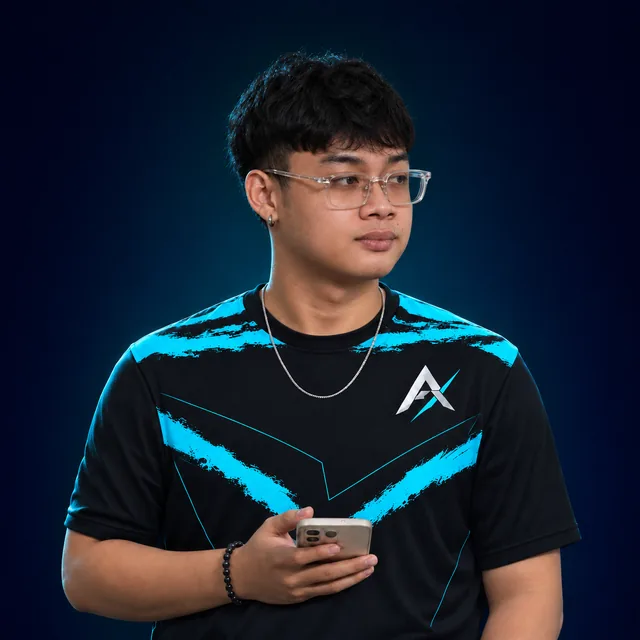
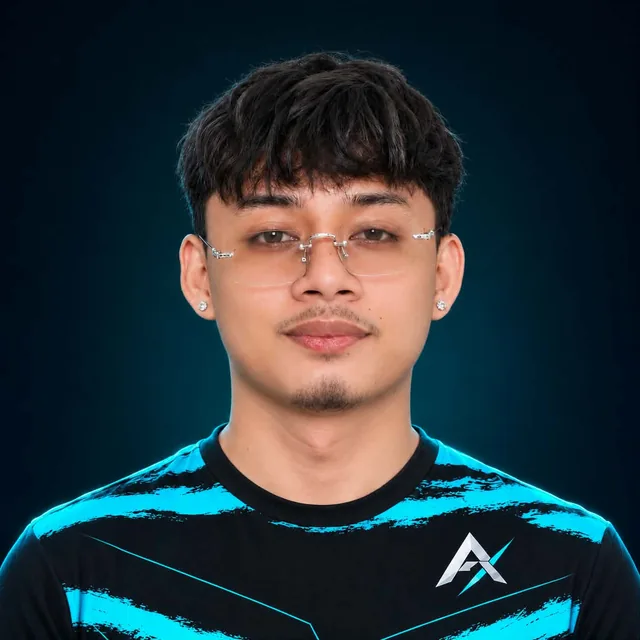
Update compressed Apex portraits and Team Wraith hover color

diff --git a/index.html b/index.html
@@ -8,7 +8,7 @@
   <title>FTAP | Full-Time Adulting, Part-Time Gaming</title>
   <link rel="icon" type="image/svg+xml" href="assets/favicon.svg">
   <link rel="preload" as="image" href="assets/optimized/gamingbg.webp" imagesrcset="assets/optimized/gamingbg-960.webp 960w, assets/optimized/gamingbg.webp 1672w" imagesizes="100vw" fetchpriority="high">
-  <link rel="stylesheet" href="styles.css?v=apex-theme-1">
+  <link rel="stylesheet" href="styles.css?v=apex-theme-2">
   <link rel="stylesheet" href="trophy.css">
   <script defer src="community.js?v=optimized-1"></script>
   <script defer src="app.js?v=apex-teams-1"></script>
@@ -188,11 +188,11 @@
             <header class="team-slide-header"><div><h3>Apex</h3></div><img decoding="async" class="team-logo" src="assets/optimized/teams/apex/apex.webp" width="1254" height="1254" alt="Apex silver and cyan A logo" loading="lazy"></header>
             <ul class="team-lineup" aria-label="Apex starting lineup">
               <li class="player-card rank-immortal">
-                <div class="player-portrait"><img decoding="async" class="player-photo" src="assets/optimized/teams/apex/haru.webp" width="1254" height="1254" alt="Haru in an Apex jersey" loading="lazy"><span class="captain-badge">Captain</span></div>
+                <div class="player-portrait"><img decoding="async" class="player-photo" src="assets/optimized/teams/apex/haru.webp?v=2" width="1254" height="1254" alt="Haru in an Apex jersey" loading="lazy"><span class="captain-badge">Captain</span></div>
                 <div class="player-card-copy"><div class="player-card-tags"></div><h4 class="player-name">Haru</h4><div class="player-medal"><img decoding="async" src="assets/optimized/medals/immortal.webp" width="80" height="80" alt="" loading="lazy"><span>Immortal</span></div><p class="player-lane">Offlane</p></div>
               </li>
               <li class="player-card rank-ancient">
-                <div class="player-portrait"><img decoding="async" class="player-photo" src="assets/optimized/teams/apex/zen.webp" width="1254" height="1254" alt="Zen in an Apex jersey" loading="lazy"></div>
+                <div class="player-portrait"><img decoding="async" class="player-photo" src="assets/optimized/teams/apex/zen.webp?v=3" width="1254" height="1254" alt="Zen in an Apex jersey" loading="lazy"></div>
                 <div class="player-card-copy"><div class="player-card-tags"></div><h4 class="player-name">Zen</h4><div class="player-medal"><img decoding="async" src="assets/optimized/medals/ancient.webp" width="80" height="80" alt="" loading="lazy"><span>Ancient</span></div><p class="player-lane">Safe Lane</p></div>
               </li>
               <li class="player-card rank-ancient">
@@ -204,7 +204,7 @@
                 <div class="player-card-copy"><div class="player-card-tags"></div><h4 class="player-name">choongiii</h4><div class="player-medal"><img decoding="async" src="assets/optimized/medals/legend.webp" width="80" height="80" alt="" loading="lazy"><span>Legend</span></div><p class="player-lane">Hard Support</p></div>
               </li>
               <li class="player-card rank-legend">
-                <div class="player-portrait"><img decoding="async" class="player-photo" src="assets/optimized/teams/apex/suneyo.webp" width="1254" height="1254" alt="Suneyo in an Apex jersey" loading="lazy"></div>
+                <div class="player-portrait"><img decoding="async" class="player-photo" src="assets/optimized/teams/apex/suneyo.webp?v=3" width="1254" height="1254" alt="Suneyo in an Apex jersey" loading="lazy"></div>
                 <div class="player-card-copy"><div class="player-card-tags"></div><h4 class="player-name">Suneyo</h4><div class="player-medal"><img decoding="async" src="assets/optimized/medals/legend.webp" width="80" height="80" alt="" loading="lazy"><span>Legend</span></div><p class="player-lane">Soft Support</p></div>
               </li>
             </ul>

diff --git a/styles.css b/styles.css
@@ -174,7 +174,7 @@
 .team-wraith .player-portrait{border-color:var(--accent);background:var(--background)}
 .team-wraith .captain-badge{background:var(--accent);color:var(--accent-ink)}
 .team-wraith .player-medal>span{color:var(--text)}
-.team-wraith-tab:hover{background:var(--accent-bright);border-color:var(--accent-bright);color:var(--accent-ink)}
+.team-wraith-tab:hover{background:var(--primary);border-color:var(--primary);color:var(--accent-ink)}
 .team-wraith-tab[aria-pressed=true]{color:var(--accent-ink)}
 .team-apex,.team-apex-tab{--primary:#00E5F5;--secondary:#E4EAF2;--background:#050E15;--accent:var(--primary);--accent-bright:var(--secondary);--text:var(--secondary)}
 .team-apex{--muted:var(--secondary);--border:#00E5F555;background:var(--background);color:var(--text);border-top-color:var(--primary)}

diff --git a/ARTWORK.md b/ARTWORK.md
@@ -40,9 +40,9 @@ The Smoke Spammers asset was replaced with FTAP’s follow-up image. The replace
 
 `assets/teams/kneegrow/` contains the supplied dog logo at 533 × 576 pixels and jersey portraits for Den, Ivan, and Jing at 1254 × 1254 pixels, copied unchanged with their original filenames. Jaja and Hitori have no supplied photos and retain the default male silhouettes. The logo follows the shared team-logo size limit. The team's presentation uses the supplied charcoal `#33323C`, brown `#A57B6E`, and light gray `#E3E5E3` palette; the team tab stays neutral until selected.
 
-`assets/teams/team-wraith/` contains the supplied helmet logo at 1086 × 1448 pixels and jersey portraits for kobedanigga (`kobe.png`), Zoro, Bosh, and Bunbun at 1254 × 1254 pixels, copied unchanged. Sixth man Natnat's supplied portrait is 1448 × 1086 pixels, also copied unchanged; Tree retains the default male portrait. The mistakenly supplied Hanamichi photo is excluded from this team. The presentation uses the requested gold primary `#B89B72`, cyan secondary `#00D9FF`, and background `#080D11`, with ivory `#EDE6D9` text. The tab uses secondary blue on hover. Browser assets use optimized WebP copies in `assets/optimized/teams/team-wraith/`.
+`assets/teams/team-wraith/` contains the supplied helmet logo at 1086 × 1448 pixels and jersey portraits for kobedanigga (`kobe.png`), Zoro, Bosh, and Bunbun at 1254 × 1254 pixels, copied unchanged. Sixth man Natnat's supplied portrait is 1448 × 1086 pixels, also copied unchanged; Tree retains the default male portrait. The mistakenly supplied Hanamichi photo is excluded from this team. The presentation uses the requested gold primary `#B89B72`, cyan secondary `#00D9FF`, and background `#080D11`, with ivory `#EDE6D9` text. The tab uses primary gold on hover. Browser assets use optimized WebP copies in `assets/optimized/teams/team-wraith/`.
 
-`assets/teams/apex/` contains the supplied Apex logo (`apex.png`) and jersey portraits for Haru, RueQiea, Suneyo, and Zen, copied unchanged at 1254 × 1254 pixels. Apex replaces the Restarted Noobs team name; Yeeet's card is now named Zen, and choongiii retains the default male portrait. The presentation uses primary `#00E5F5`, secondary `#E4EAF2`, and background `#050E15`. The logo uses a 420 × 420 lossless WebP and each portrait uses a 640 × 640 WebP at quality 82. All five optimized assets total 266,264 bytes versus 10,022,271 bytes of originals (97.3% fewer image bytes).
+`assets/teams/apex/` contains the supplied Apex logo (`apex.png`) and jersey portraits for Haru, RueQiea, Suneyo, and Zen, copied unchanged at 1254 × 1254 pixels. Haru and Zen use the supplied replacement PNGs, compressed to 34,684-byte and 34,358-byte WebPs respectively. Suneyo's source is `suneyo.jpg`; its 71,013 bytes are compressed to a 30,326-byte WebP. Apex replaces the Restarted Noobs team name; Yeeet's card is now named Zen, and choongiii retains the default male portrait. The presentation uses primary `#00E5F5`, secondary `#E4EAF2`, and background `#050E15`. The logo uses a 420 × 420 lossless WebP and each portrait uses a 640 × 640 WebP at quality 82. All five optimized assets total 268,610 bytes versus 8,338,700 bytes of originals (96.8% fewer image bytes).
 
 `assets/player-locked.svg` and `assets/player-silhouette-woman.svg` are the earlier code-drawn silhouettes, retained as legacy assets. The roster now uses the supplied PNG portraits with the existing responsive card sizing.
 
@@ -52,6 +52,6 @@ Medals follow the supplied roster key and subsequent rank corrections: navy = Cr
 
 ## Optimized browser copies
 
-The original PNG and JPEG files described above remain unchanged as source artwork. The website serves smaller WebP copies from `assets/optimized/`, generated by `tools/optimize-images.cjs`. Its `manifest.json` records the original SHA-256 hashes, source and output dimensions, file sizes, and lossless settings. The 49 source images total 86,969,553 bytes; their optimized copies plus two preview variants total 7,204,876 bytes, a reduction of 91.7% for the complete image set. This measures image bytes, not page load time.
+The original PNG and JPEG files described above remain unchanged as source artwork. The website serves smaller WebP copies from `assets/optimized/`, generated by `tools/optimize-images.cjs`. Its `manifest.json` records the original SHA-256 hashes, source and output dimensions, file sizes, and lossless settings. The 49 source images total 85,285,982 bytes; their optimized copies plus two preview variants total 7,207,222 bytes, a reduction of 91.5% for the complete image set. This measures image bytes, not page load time.
 
-Both full-resolution trophy faces are lossless and decode to exactly the original RGBA pixels. Logos, medals, and the Smoke Spammers logo use lossless encoding after resizing for their display size; portraits and backgrounds use high-quality lossy encoding with transparency retained. Player photos fit within 640 × 854 pixels at WebP quality 82, and default portraits use 600 × 800 pixels at quality 84. The 26 supplied player photos total 983,654 bytes, about 23–70 KB each. The hero has a 960-pixel variant for smaller screens, and the trophy has a lightweight 512-pixel preview. Artwork sources and ownership are unchanged.
+Both full-resolution trophy faces are lossless and decode to exactly the original RGBA pixels. Logos, medals, and the Smoke Spammers logo use lossless encoding after resizing for their display size; portraits and backgrounds use high-quality lossy encoding with transparency retained. Player photos fit within 640 × 854 pixels at WebP quality 82, and default portraits use 600 × 800 pixels at quality 84. The 26 supplied player photos total 986,000 bytes, about 23–70 KB each. The hero has a 960-pixel variant for smaller screens, and the trophy has a lightweight 512-pixel preview. Artwork sources and ownership are unchanged.

diff --git a/README.md b/README.md
@@ -4,9 +4,9 @@ The interactive trophy room is documented in [TROPHY.md](TROPHY.md), including c
 
 ## Image optimization
 
-The site serves WebP copies from `assets/optimized/`. The complete optimized image set, including mobile hero and trophy preview variants, is 7.20 MB versus 86.97 MB of original artwork (91.7% fewer image bytes). Originals remain available in `assets/` for future edits. Portraits and backgrounds use high-quality compression; full-resolution trophy textures retain identical pixels and transparent edges.
+The site serves WebP copies from `assets/optimized/`. The complete optimized image set, including mobile hero and trophy preview variants, is 7.21 MB versus 85.29 MB of original artwork (91.5% fewer image bytes). Originals remain available in `assets/` for future edits. Portraits and backgrounds use high-quality compression; full-resolution trophy textures retain identical pixels and transparent edges.
 
-All 26 supplied player photos use WebP at up to 640 pixels wide and quality 82, about 23–70 KB per photo. Default portraits use 600 × 800 WebP at quality 84. These sizes cover the player cards at twice their display resolution. All 32 cards use lazy loading and asynchronous image decoding. The unique portraits used by the roster total about 1.01 MB. The optimizer applies these settings to future player photos too.
+All 26 supplied player photos use WebP at up to 640 pixels wide and quality 82, about 23–70 KB per photo. Default portraits use 600 × 800 WebP at quality 84. These sizes cover the player cards at twice their display resolution. All 32 cards use lazy loading and asynchronous image decoding. The unique portraits used by the roster total about 1.02 MB. The optimizer applies these settings to future player photos too.
 
 The hero uses a smaller responsive image on phones, with matching preload settings to avoid a duplicate download. Other images decode asynchronously, and images inside closed dialogs load lazily. Full trophy textures and the 3D library load when the trophy approaches the screen or the viewer opens. HTTP pages never download the embedded direct-file texture script.
 
@@ -148,7 +148,7 @@ Chrome browser checks covered rendered widths of 320, 390, approximately 768 and
 
 The tournament team section shows one team at a time. Select a team with its named button, previous/next arrows, left/right arrow keys, or Home/End keys. The status label includes the selected team's name. Touch-swipe handling is included. The carousel does not advance automatically. Without JavaScript, all six team presentations remain stacked and readable.
 
-Apex (Team 4, formerly Restarted Noobs) uses its supplied logo and jersey portraits for Haru, Zen (formerly Yeeet), RueQiea, and Suneyo; choongiii retains the default portrait. The logo and four photos total 266 KB in WebP, down from 10.02 MB of source PNGs. Apex uses primary `#00E5F5`, secondary `#E4EAF2`, and background `#050E15`. Team Wraith uses primary `#B89B72`, secondary `#00D9FF`, and background `#080D11`, with the secondary blue for tab hover.
+Apex (Team 4, formerly Restarted Noobs) uses its supplied logo and jersey portraits for Haru, Zen (formerly Yeeet), RueQiea, and Suneyo; choongiii retains the default portrait. The logo and four photos total about 270 KB in WebP, down from 8.34 MB of source artwork. Haru and Zen use their supplied replacement portraits at about 35 KB each. Suneyo's portrait comes from the supplied JPEG and is compressed to about 30 KB. Apex uses primary `#00E5F5`, secondary `#E4EAF2`, and background `#050E15`. Team Wraith uses primary `#B89B72`, secondary `#00D9FF`, and background `#080D11`, with the primary gold for tab hover.
 
 Each lineup uses five angled portrait panels with a black silhouette, the player's name and lane, and a local Dota 2 rank medal. “Captain” is a separate role label on the portrait. Zoro, Den, and Yeeeeez retain gold names and “2025 Champ” badges. Natnat and Pardun appear as separate sixth-man cards beneath their respective starting lineups. The medals follow the supplied roster's color key; see `ARTWORK.md` for asset sources. To edit the lineup, update the relevant `.team-slide` article in `index.html`, including its names, roles, medal filenames, and rank labels.
 
